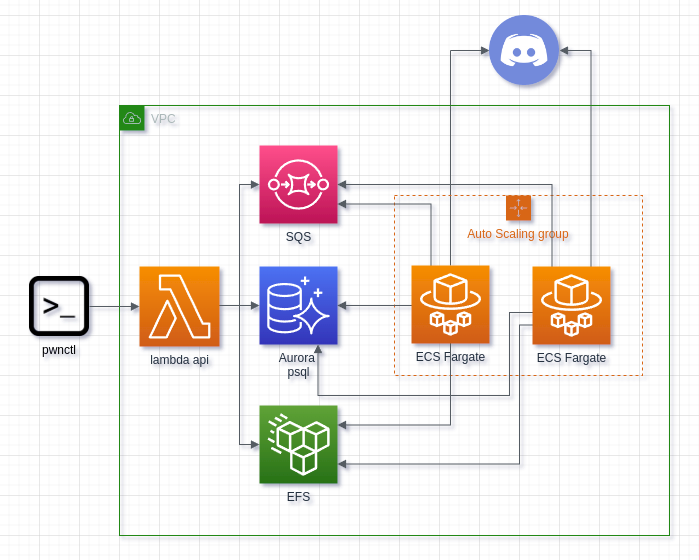
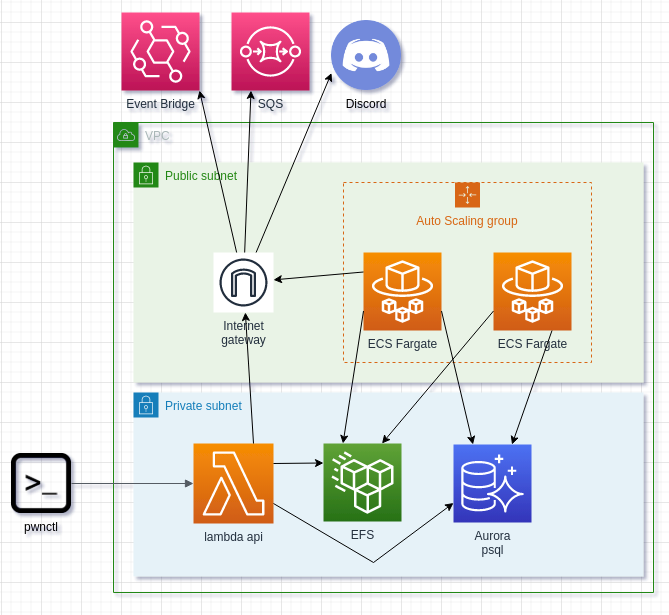
diagram & README changes

diff --git a/README.md b/README.md
@@ -51,20 +51,22 @@ sub.example.com
 sub2.example.com
 ```
 
-**Tags** are a way to store arbitary metadata relating to an asset, they can be used in the `Filter` field (trough an indexer on the asset base class) to chain tasks into workflows where one task (e.g nmap) discovers some metadata relating to an asset (e.g. IIS service banner) which than causes a metadata specific task to be queued (e.g. IIS shortname scanning)
+**Tags** are a way to store arbitary metadata relating to an asset, they can be used in the `Filter` field (trough an indexer on the asset base class) to chain tasks into workflows where one task (e.g nmap) discovers some metadata relating to an asset (e.g. IIS service banner) which than causes a specific task to be queued (e.g. IIS shortname scanning)
 
 ### Scope
 
-scope is determined trough explicit matching of `ScopeDefinition` patterns or trough a set of relationship rules
+scope is determined trough explicit matching of `ScopeDefinition` patterns or trough a set of implicit relationship rules
 
-scope definitions can be one of three types (DomainRegex, UrlRegex & CIDR), and can be grouped into ScopeAggregates
+scope definitions can be one of three types (`DomainRegex`, `UrlRegex` or `CIDR`), and can be grouped into ScopeAggregates
 
 aside from direct matching assets will be considered inscope according to the following rules
 - DomainNameRecords beloinging to  in scope domain are inscope
 - Ip addreses connected to inscope domain trough A/AAAA record are also inscope
 - Domains connected to inscope domain trough CNAME record are NOT inscope
-- NetworkSockets/HttpEndpoints/HttpParameters containing inscope ips or domains are also inscope
+- NetworkSockets/HttpEndpoints/HttpParameters routing to inscope ips or domains are inscope
 - Emails containing inscope domain are in scope
+
+scope definitions & scope aggregates can be created trough the rest api & cli.
 
 **sample ScopeAggregate creation request**
 ```json
@@ -86,6 +88,8 @@ tasks are configured trough TaskDefinitions and can be organized into TaskProfil
 tasks definitions are specific to an assset class (i.e domain_resolution task only runs on DomainName assets)
 
 assets can be filtered trough the CSharpScript `Filter` field that has access to the asset class and associated Tags.
+
+task definitions & task profiles can be seeded trough yaml files or created trough the rest api & cli.
 
 **`task-definitions.yml`**
 ```YAML
@@ -159,9 +163,16 @@ TaskDefinitions:
 
 **Notification Configuration**
 
+a notify `provider-config.yaml` file with valid discord configuration should be placed in the `deployment/` directory to enable notifications.
+
 1. worker instances send status notification at start up & shutdown
-2. cronjob sends report detailing findings by asset class & task status (pending/completed/failed) [!WorkInProgress!]
-3. configurable notification rules with CSharpScript `Filter` field like `TaskDefinitions` 
+2. configurable notification rules with CSharpScript `Filter` field like `TaskDefinitions` 
+
+notification rules can be seeded trough yaml files or created trough the rest api & cli.
+
+**To Do**
+- [ ] periodic status notification
+- [ ] terraform discord server
 
 **`notification-rules.yml`**
 ```YAML
@@ -199,18 +210,19 @@ TaskDefinitions:
 
 ### Operations
 
-there are three types of operations Crawl, Scan & Monitor.
+there are three types of operations `Crawl`, `Scan` & `Monitor`.
 
-every operation has a ScopeAggregate and a TaskProfile.
+every operation has an associated `ScopeAggregate` and `TaskProfile`.
 
-**Crawl** operations have an addition Input list that contains the initial assets that should be processed to start a recursive discovery loop.
+**Crawl** operations have an addition Input list that contains the initial assets that should be processed to start a recursive loop where tasks will find new assets and further tasks will be queued for the new assets to keep the loop going untill all the discoverable scope has been crawled according to the `TaskProfile` configuration.
 
-**Scan** operations can be used to expand on the collected assets and discover misconfigurations in a controlled manner.
+**Scan** operations can be used to expand on the collected assets or discover misconfigurations in a controlled manner where pre-discovered assets will get assigned tasks but outputs will not be recursivly processed like in crawl mode.
 
 **Monitor** operations allow you to periodicly monitor assets for change.
 
 **To Do**
 - [ ] Implement schedule based Monitor operations with EventBridge
+- [ ] Implement scan operations
 
 ## How to set it up?
 
@@ -222,4 +234,4 @@ every operation has a ScopeAggregate and a TaskProfile.
 
 **To Do**
 - [ ] terraform private ecr registry
-- [ ] terraform discord server
+- [ ] bearer based api auth
